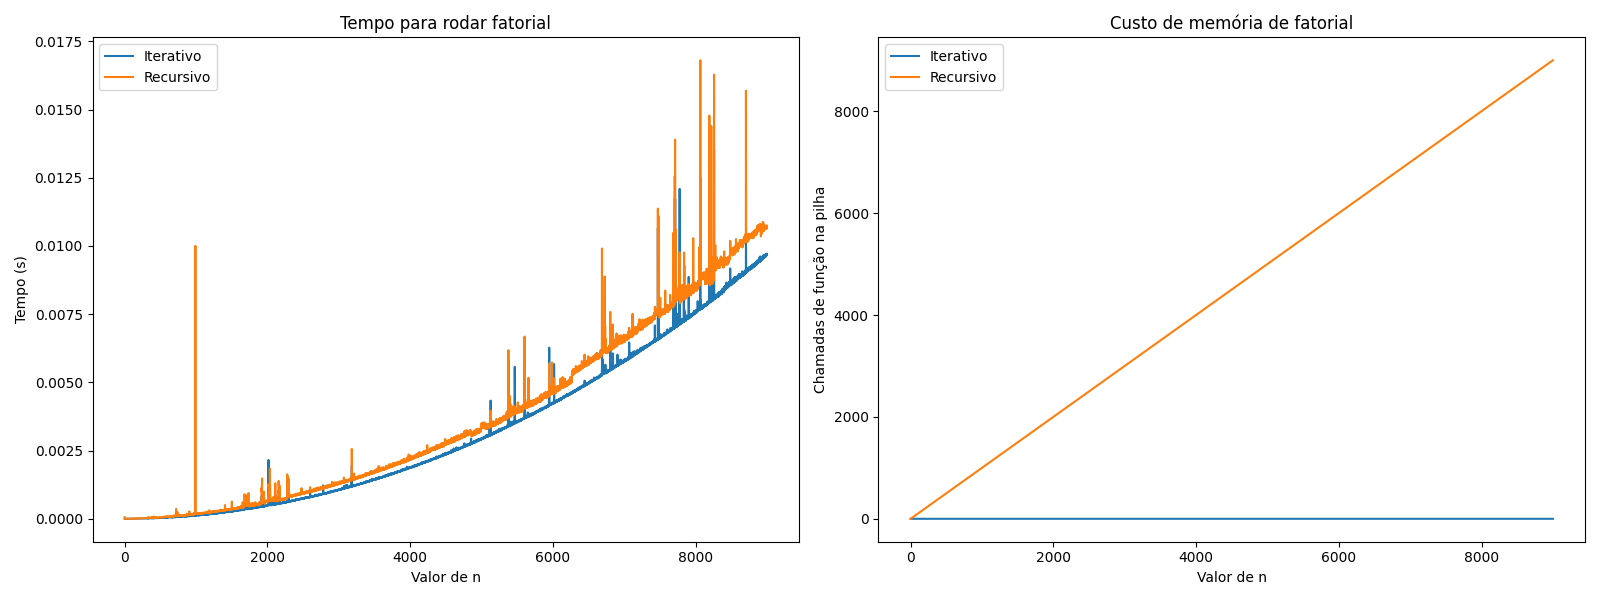
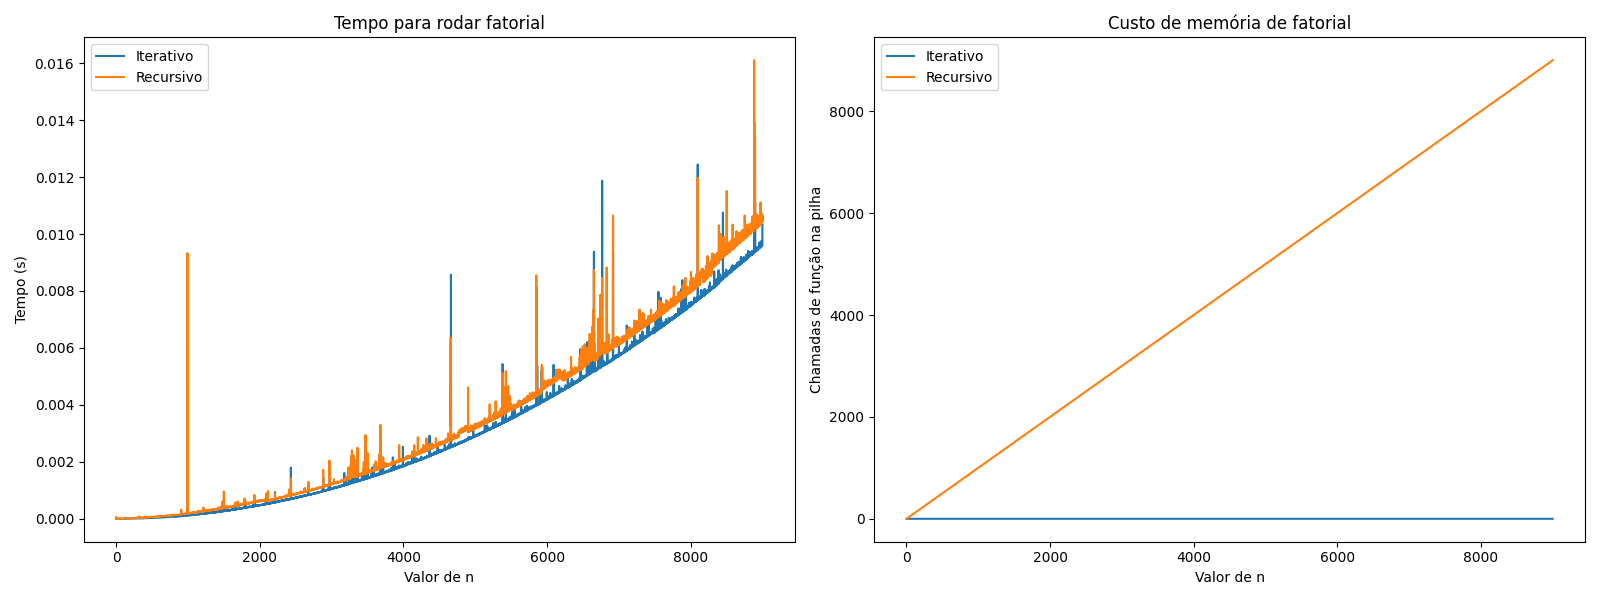
recursao 2

diff --git a/10-28/ex2.py b/10-28/ex2.py
@@ -1,0 +1,25 @@
+import random
+
+
+def busca_binaria(lista, x, inicio, fim):
+    if inicio > fim:
+        return -1
+    if inicio == fim:
+        if lista[inicio] == x:
+            return inicio
+        return -1
+
+    meio = (inicio + fim) // 2
+    if lista[meio] == x:
+        return meio
+    if lista[meio] < x:
+        return busca_binaria(lista, x, meio + 1, fim)
+    if lista[meio] > x:
+        return busca_binaria(lista, x, inicio, meio - 1)
+
+
+
+lista = random.sample(range(30), 20)
+lista.sort()
+print(lista)
+print(busca_binaria(lista, 20, 0, len(lista) - 1))

diff --git a/10-28/fibonacci.py b/10-28/fibonacci.py
@@ -1,0 +1,17 @@
+def fibonacci(n):
+    if n == 0 or n == 1:
+        return 1
+    return fibonacci(n - 1) + fibonacci(n - 2)
+
+
+def fibonacci_iterativo(n):
+    menos_2 = 1
+    menos_1 = 1
+    for i in range(n - 1):
+        resultado = menos_2 + menos_1
+        menos_2 = menos_1
+        menos_1 = resultado
+    return resultado
+
+
+print(fibonacci(50))

diff --git a/10-28/recursao.py b/10-28/recursao.py
@@ -1,0 +1,16 @@
+def hanoi(n, inicio, fim):
+    if n == 1:
+        print(f"Passe {inicio} para {fim}")
+        return
+
+    for i in range(3):
+        if i != inicio and i != fim:
+            aux = i
+            break
+
+    hanoi(n - 1, inicio, aux)
+    print(f"Passe {inicio} para {fim}")
+    hanoi(n - 1, aux, fim)
+
+
+hanoi(4, 0, 2)

diff --git a/10-28/ex1.1.py b/10-28/ex1.1.py
@@ -1,0 +1,12 @@
+def contagem_vogais(palavra, n):
+    if n == 0:
+        return 0
+
+    tem_vogal = 0
+    if palavra[n - 1] in "aeiou":
+        tem_vogal = 1
+    
+    return contagem_vogais(palavra, n - 1) + tem_vogal
+
+
+print(contagem_vogais("maca", 4))

diff --git a/10-28/ex1.py b/10-28/ex1.py
@@ -1,0 +1,8 @@
+def binario(n):
+    if n <= 1:
+        return str(n)
+
+    return binario(n // 2) + str(n % 2)
+
+
+print(binario(10))

diff --git a/10-28/soma.py b/10-28/soma.py
@@ -1,0 +1,7 @@
+def soma(n):
+    if n == 1:
+        return 1
+    return soma(n - 1) + n
+
+
+print(soma(2000))
